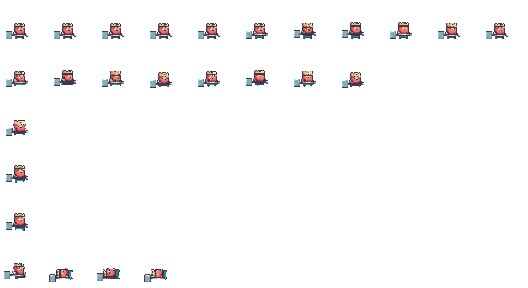
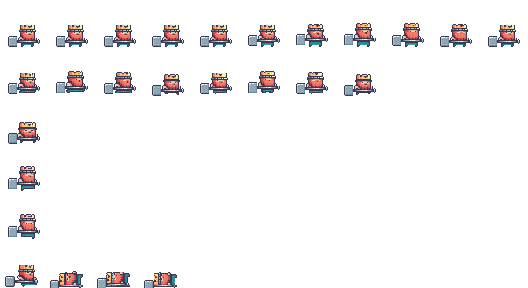
fix(rendering): Register King sprite and anchor it to the player's feet
The King occupied only a small, off-centre corner of each 48px atlas cell, so
draw_player (which centred the whole padded cell on the player) drew a tiny King
that floated off the hitbox and jumped sideways when flipped. Re-register every
King frame in build_assets.py to a shared content box: horizontally centred with
its feet on the cell floor. Extract the pure presentation helpers into
player_view.hpp (feet-anchored destination, animation-state selection, looped
frame index with an empty-clip guard) and cover them with tests.

diff --git a/tools/build_assets.py b/tools/build_assets.py
@@ -229,6 +229,55 @@ def kings_atlas(archive: zipfile.ZipFile, output: Path) -> dict[str, object]:
     )
 
 
+KING_FRAME = (78, 58)
+STABLE_STATES = frozenset({"idle", "run", "charge", "rise", "fall"})
+
+
+def union_box(
+    frames: list[Image.Image],
+) -> tuple[int, int, int, int] | None:
+    """Return the smallest box covering the opaque content of every frame."""
+    box: tuple[int, int, int, int] | None = None
+    for frame in frames:
+        bounds = frame.getbbox()
+        if bounds is None:
+            continue
+        box = bounds if box is None else (
+            min(box[0], bounds[0]),
+            min(box[1], bounds[1]),
+            max(box[2], bounds[2]),
+            max(box[3], bounds[3]),
+        )
+    return box
+
+
+def register_king_frames(
+    frames: list[Image.Image],
+    box: tuple[int, int, int, int],
+) -> list[Image.Image]:
+    """Crop every frame to a shared content box, then scale and place it
+    bottom-centre inside a PLAYER_CELL square so all King states line up on one
+    anchor: horizontally centred, feet on the cell floor. This keeps the King a
+    constant size, prevents a horizontal jump when the sprite is flipped, and
+    lets the renderer align the sprite's feet to the player's feet."""
+    left, top, right, bottom = box
+    crop_width, crop_height = right - left, bottom - top
+    scale = min(PLAYER_CELL / crop_width, PLAYER_CELL / crop_height)
+    scaled_width = max(1, round(crop_width * scale))
+    scaled_height = max(1, round(crop_height * scale))
+    placed: list[Image.Image] = []
+    for frame in frames:
+        cropped = frame.crop(box).resize(
+            (scaled_width, scaled_height), Image.Resampling.NEAREST)
+        cell = Image.new("RGBA", (PLAYER_CELL, PLAYER_CELL))
+        cell.alpha_composite(
+            cropped,
+            ((PLAYER_CELL - scaled_width) // 2, PLAYER_CELL - scaled_height),
+        )
+        placed.append(cell)
+    return placed
+
+
 def king_player_atlas(
     archive: zipfile.ZipFile,
     output: Path,
@@ -241,16 +290,44 @@ def king_player_atlas(
         ("fall", "Fall (78x58).png"),
         ("respawn", "Dead (78x58).png"),
     )
-    sheets: list[tuple[str, list[Image.Image]]] = []
+    frame_width, frame_height = KING_FRAME
+    raw: list[tuple[str, list[Image.Image]]] = []
     for state, filename in states:
         sheet = open_rgba(archive, f"Sprites/01-King Human/{filename}")
-        if sheet.height != 58 or sheet.width % 78 != 0:
+        if sheet.height != frame_height or sheet.width % frame_width != 0:
             raise RuntimeError(f"unexpected King animation dimensions for {filename}")
         frames = [
-            fitted(sheet.crop((x, 0, x + 78, 58)), PLAYER_CELL)
-            for x in range(0, sheet.width, 78)
+            sheet.crop((x, 0, x + frame_width, frame_height))
+            for x in range(0, sheet.width, frame_width)
         ]
-        sheets.append((state, frames))
+        raw.append((state, frames))
+
+    state_boxes = {state: union_box(frames) for state, frames in raw}
+    if any(box is None for box in state_boxes.values()):
+        raise RuntimeError("a King animation has no opaque frames")
+    stable = [state_boxes[state] for state in STABLE_STATES]
+    horizontal_centre = (
+        min(box[0] for box in stable) + max(box[2] for box in stable)) / 2.0
+    every = list(state_boxes.values())
+    content_left = min(box[0] for box in every)
+    content_right = max(box[2] for box in every)
+    half_width = max(
+        horizontal_centre - content_left, content_right - horizontal_centre)
+    # Put the standing states' feet on the cell floor so the renderer can align
+    # the sprite's feet to the player's feet; the death slump may extend a hair
+    # lower and is clipped rather than lifting every pose off the ground.
+    standing_floor = max(state_boxes[state][3] for state in STABLE_STATES)
+    shared_box = (
+        max(0, round(horizontal_centre - half_width)),
+        min(box[1] for box in every),
+        min(frame_width, round(horizontal_centre + half_width)),
+        standing_floor,
+    )
+
+    sheets = [
+        (state, register_king_frames(frames, shared_box))
+        for state, frames in raw
+    ]
 
     width = max(len(frames) for _, frames in sheets) * PLAYER_CELL
     height = len(sheets) * PLAYER_CELL

diff --git a/include/jumpcastle/player_view.hpp b/include/jumpcastle/player_view.hpp
@@ -1,0 +1,61 @@
+#pragma once
+
+#include "jumpcastle/assets.hpp"
+#include "jumpcastle/player.hpp"
+
+#include <cmath>
+#include <cstddef>
+
+namespace jumpcastle {
+
+// The generated King atlas registers every cell the same way: the sprite is
+// horizontally centred and its feet sit on the cell floor. Drawing the cell as
+// a square this many pixels tall makes the King about two tiles wide and keeps
+// its feet on the ground when the destination bottom is aligned to the player's
+// feet.
+inline constexpr float player_sprite_display =
+    3.0F * static_cast<float>(config::tile_pixels);
+
+// Place the King so it is centred on the player horizontally and stands with
+// its feet at the player's feet. Because the sprite is centred in its cell, the
+// destination is independent of facing, so flipping the source never shifts it.
+[[nodiscard]] inline Rectangle player_sprite_destination(
+    const Vector2 position,
+    const float screen_offset_y) noexcept {
+    const float centre_x = position.x * static_cast<float>(config::tile_pixels);
+    const float feet_y =
+        (position.y + config::player_half_size.y - screen_offset_y) *
+        static_cast<float>(config::tile_pixels);
+    return {
+        centre_x - player_sprite_display * 0.5F,
+        feet_y - player_sprite_display,
+        player_sprite_display,
+        player_sprite_display,
+    };
+}
+
+[[nodiscard]] inline PlayerAnimation select_animation(
+    const PlayerState& player,
+    const float respawn_animation_time) noexcept {
+    if (respawn_animation_time > 0.0F) return PlayerAnimation::respawn;
+    if (player.on_ground) {
+        if (player.jump_hold_time > 0.001F) return PlayerAnimation::charge;
+        if (std::abs(player.velocity.x) > 0.01F) return PlayerAnimation::run;
+        return PlayerAnimation::idle;
+    }
+    return player.velocity.y < 0.0F ? PlayerAnimation::rise : PlayerAnimation::fall;
+}
+
+// Advance through a clip at its frame rate, looping. Guards empty clips so a
+// malformed manifest can never divide by zero at draw time.
+[[nodiscard]] inline std::size_t animation_frame_index(
+    const float animation_time,
+    const int fps,
+    const std::size_t frame_count) noexcept {
+    if (frame_count == 0) return 0;
+    const auto step = static_cast<std::size_t>(
+        std::floor(animation_time * static_cast<float>(fps)));
+    return step % frame_count;
+}
+
+}  // namespace jumpcastle

diff --git a/tests/player_view_test.cpp b/tests/player_view_test.cpp
@@ -1,0 +1,52 @@
+#include "jumpcastle/player_view.hpp"
+
+#include <catch2/catch_approx.hpp>
+#include <catch2/catch_test_macros.hpp>
+
+using namespace jumpcastle;
+
+TEST_CASE("sprite is centred on the player and stands on its feet") {
+    const Rectangle dest = player_sprite_destination({5.0F, -3.0F}, 0.0F);
+
+    const float tile = static_cast<float>(config::tile_pixels);
+    CHECK(dest.x + dest.width * 0.5F == Catch::Approx(5.0F * tile));
+    const float feet = (-3.0F + config::player_half_size.y) * tile;
+    CHECK(dest.y + dest.height == Catch::Approx(feet));
+    CHECK(dest.width == Catch::Approx(dest.height));
+}
+
+TEST_CASE("sprite destination ignores facing so flipping never shifts it") {
+    const Rectangle dest = player_sprite_destination({7.25F, -10.0F}, -12.0F);
+    const float tile = static_cast<float>(config::tile_pixels);
+
+    // The destination centres on the player x regardless of facing; the flip is
+    // applied to the source rectangle, not this destination.
+    CHECK(dest.x + dest.width * 0.5F == Catch::Approx(7.25F * tile));
+}
+
+TEST_CASE("animation state follows the player") {
+    PlayerState grounded{};
+    grounded.on_ground = true;
+    CHECK(select_animation(grounded, 0.0F) == PlayerAnimation::idle);
+
+    grounded.velocity.x = 2.0F;
+    CHECK(select_animation(grounded, 0.0F) == PlayerAnimation::run);
+
+    grounded.jump_hold_time = 0.2F;
+    CHECK(select_animation(grounded, 0.0F) == PlayerAnimation::charge);
+
+    CHECK(select_animation(grounded, 0.3F) == PlayerAnimation::respawn);
+
+    PlayerState airborne{};
+    airborne.velocity.y = -1.0F;
+    CHECK(select_animation(airborne, 0.0F) == PlayerAnimation::rise);
+    airborne.velocity.y = 1.0F;
+    CHECK(select_animation(airborne, 0.0F) == PlayerAnimation::fall);
+}
+
+TEST_CASE("frame index loops within the clip and guards empty clips") {
+    CHECK(animation_frame_index(0.0F, 10, 4) == 0);
+    CHECK(animation_frame_index(0.25F, 10, 4) == 2);
+    CHECK(animation_frame_index(0.55F, 10, 4) == 1);
+    CHECK(animation_frame_index(100.0F, 10, 0) == 0);
+}

diff --git a/src/renderer.cpp b/src/renderer.cpp
@@ -1,5 +1,7 @@
 #include "jumpcastle/renderer.hpp"
 
+#include "jumpcastle/player_view.hpp"
+
 #include <algorithm>
 #include <cmath>
 #include <stdexcept>
@@ -183,18 +185,6 @@ void draw_room(
     }
 }
 
-PlayerAnimation select_animation(
-    const PlayerState& player,
-    const float respawn_animation_time) noexcept {
-    if (respawn_animation_time > 0.0F) return PlayerAnimation::respawn;
-    if (player.on_ground) {
-        if (player.jump_hold_time > 0.001F) return PlayerAnimation::charge;
-        if (std::abs(player.velocity.x) > 0.01F) return PlayerAnimation::run;
-        return PlayerAnimation::idle;
-    }
-    return player.velocity.y < 0.0F ? PlayerAnimation::rise : PlayerAnimation::fall;
-}
-
 void draw_player(
     const PlayerState& player,
     const float screen_offset_y,
@@ -203,23 +193,12 @@ void draw_player(
     const Texture2D texture) {
     const PlayerAnimation state = select_animation(player, respawn_animation_time);
     const AnimationClip& clip = catalog.animation(state);
-    const auto frame = static_cast<std::size_t>(
-        std::floor(player.animation_time * static_cast<float>(clip.fps))) %
-        clip.frames.size();
-    const Vector2 screen_position{
-        player.position.x * static_cast<float>(config::tile_pixels),
-        (player.position.y - screen_offset_y) * static_cast<float>(config::tile_pixels),
-    };
-    constexpr float player_sprite_size = 32.0F;
+    const std::size_t frame = animation_frame_index(
+        player.animation_time, clip.fps, clip.frames.size());
     draw_region(
         texture,
         clip.frames[frame],
-        {
-            screen_position.x - player_sprite_size * 0.5F,
-            screen_position.y - player_sprite_size * 0.5F,
-            player_sprite_size,
-            player_sprite_size,
-        },
+        player_sprite_destination(player.position, screen_offset_y),
         WHITE,
         !player.facing_right);
 }
